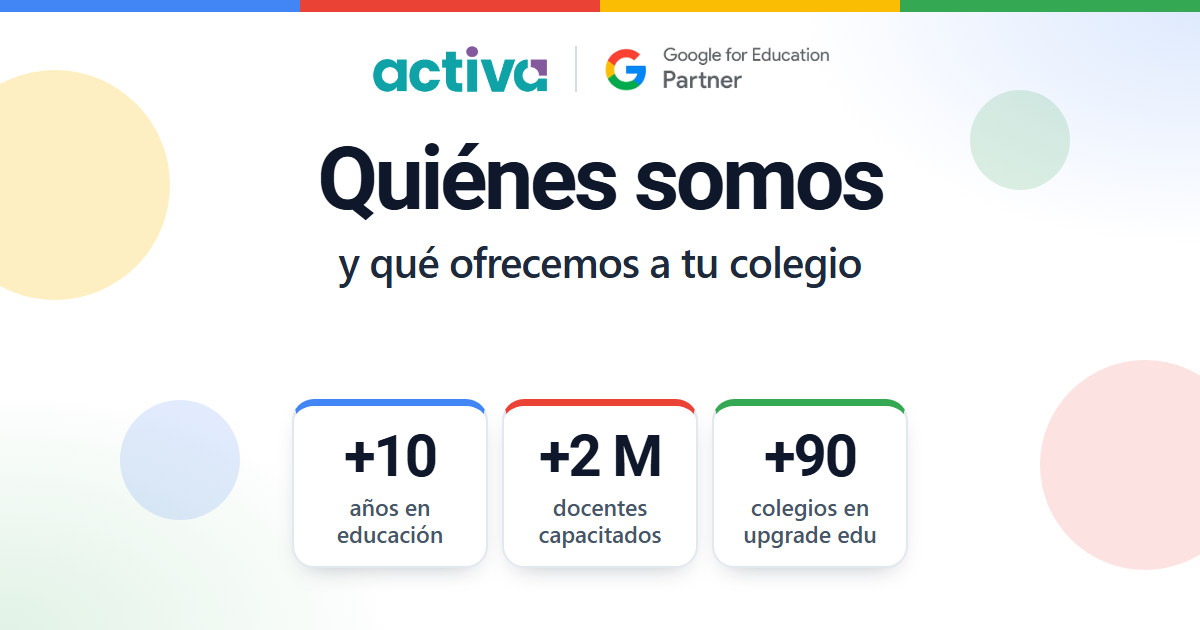
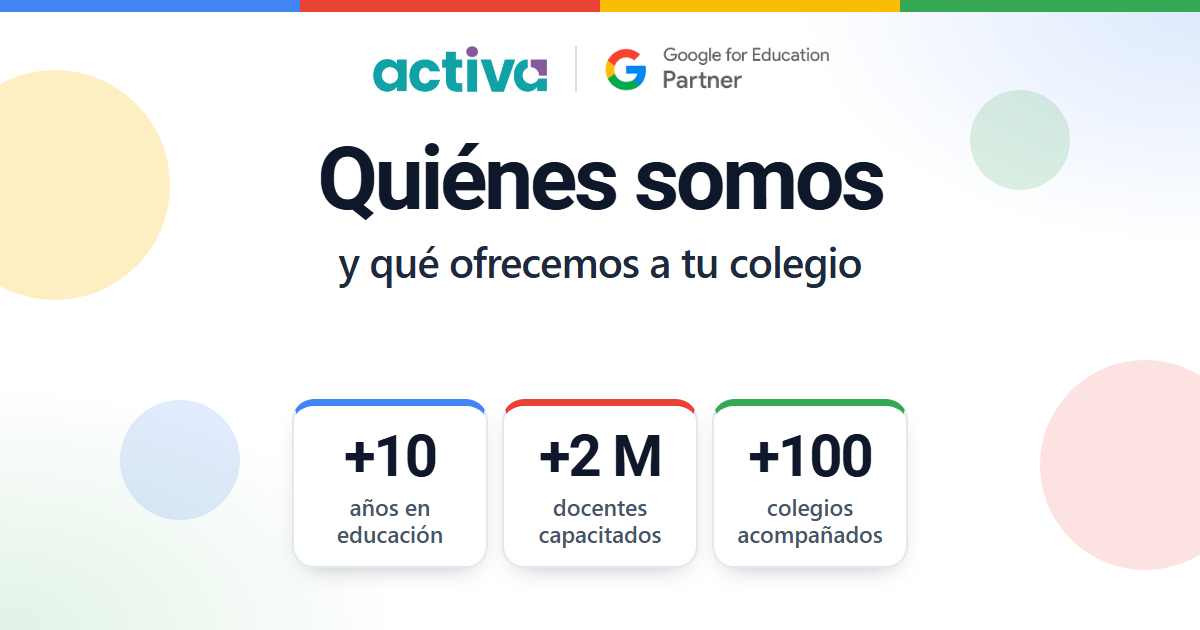
Cifra de colegios sube de +90 a +100 y pasa a decir "acompañados"
Se actualiza en upgrade edu, one-pager, Quiénes somos (incluida la vista
previa og.png), padres de familia y comparativa de competidores. La
etiqueta cambia de "colegios en upgrade edu" a "colegios acompañados",
que es lo que mide la cifra del dueño.

Changed region(s): [[0.6167, 0.7841, 0.74, 0.8746], [0.6167, 0.6635, 0.74, 0.754]]

diff --git a/paginas/upgrade-edu/index.html b/paginas/upgrade-edu/index.html
@@ -2141,7 +2141,7 @@ ul.sp2-l li::before{display:none}
   S03 · QUIÉNES SOMOS — rediseño con el mensaje y las cifras corregidas por el
   cliente: h2 «Más de 10 años en la transformación educativa» + lead con la
   presentación de activa (partner de Google for Education, digitalización
-  completa). Cifras: +2 M docentes, +90 colegios, 16 Reference Schools,
+  completa). Cifras: +2 M docentes, +100 colegios, 16 Reference Schools,
   6 proyectos INTERNACIONALES (El Salvador · Chile · Perú · Barbados ·
   Colombia · México). La banda del ecosistema Google y el pie se conservan.
 
@@ -2186,7 +2186,7 @@ ul.sp2-l li::before{display:none}
       <div class="grid g4" style="grid-auto-rows:172px">
         <div class="card rule b lift"><div class="stat"><div class="n b">+2 M</div>
           <div class="l">docentes capacitados</div></div></div>
-        <div class="card rule r lift"><div class="stat"><div class="n r">+90</div>
+        <div class="card rule r lift"><div class="stat"><div class="n r">+100</div>
           <div class="l">colegios con su programa de <b>transformación digital</b></div></div></div>
         <!-- La cifra de las Reference Schools es la más «de Google» de las
              cuatro y la única lo bastante estrecha para que un aro la rodee
@@ -4744,7 +4744,7 @@ MOVIMIENTO · barrido de luz sobre la banda de cifras (08 · respaldo):
   adicional): capa absoluta que cubre solo la banda, recortada a su radio.
   Cada 9 s, una franja de luz inclinada (blanco pico .09) recorre la banda
   oscura en ≈ 2.3 s y descansa el resto del ciclo: el ojo vuelve a las cifras
-  +2 M · +90 · 16 justo cuando el comercial remata el argumento. El contenido
+  +2 M · +100 · 16 justo cuando el comercial remata el argumento. El contenido
   de la banda sube a z1; el brillo queda debajo. Todo absoluto → 0 px de alto
   añadido: la cuenta anterior no cambia y la lámina sigue en 1280×720.
 -->
@@ -4809,7 +4809,7 @@ MOVIMIENTO · barrido de luz sobre la banda de cifras (08 · respaldo):
           Respaldo<br>comprobado</div>
         <div class="s27w-bs"><b style="color:#8ab4f8">+2 M</b><span>docentes<br>capacitados</span></div>
         <div class="s27w-bd"></div>
-        <div class="s27w-bs"><b style="color:#fdd663">+90</b><span>colegios<br>acompañados</span></div>
+        <div class="s27w-bs"><b style="color:#fdd663">+100</b><span>colegios<br>acompañados</span></div>
         <div class="s27w-bd"></div>
         <div class="s27w-bs"><b style="color:#81c995">16</b><span><span class="gg"><i>G</i><i>o</i><i>o</i><i>g</i><i>l</i><i>e</i></span> Reference<br>Schools</span></div>
       </div>

diff --git a/paginas/padres-de-familia/index.html b/paginas/padres-de-familia/index.html
@@ -1009,7 +1009,7 @@ tbody tr:last-child td{border-bottom:0}
         </div>
         <div class="card pad-s rule r lift" style="flex-direction:row;align-items:center;gap:14px">
           <div class="med r sm" style="background:var(--white)" aria-hidden="true"><svg viewBox="0 0 24 24"><path d="M12 3L1 9l4 2.18v6L12 21l7-3.82v-6l2-1.09V17h2V9L12 3zm6.82 6L12 12.72 5.18 9 12 5.28 18.82 9zM17 15.99l-5 2.73-5-2.73v-3.72L12 15l5-2.73v3.72z"/></svg></div>
-          <div class="stat"><div class="n r" style="font-size:34px;letter-spacing:-1.3px">+90</div>
+          <div class="stat"><div class="n r" style="font-size:34px;letter-spacing:-1.3px">+100</div>
             <div class="l">colegios ya recorrieron este camino</div></div>
         </div>
         <!-- El 16 es la cifra más «de Google» de la lámina y la única lo bastante

diff --git a/paginas/quienes-somos/index.html b/paginas/quienes-somos/index.html
@@ -458,7 +458,7 @@ footer .puntos li::before{background:#64748b;width:6px;height:6px}
   <div class="wrap mo-stagger" id="rejCifras">
     <div class="cifra" style="--c:#4285f4"><b>+10</b><span>años en transformación educativa</span></div>
     <div class="cifra" style="--c:#ea4335"><b>+2 M</b><span>docentes capacitados</span></div>
-    <div class="cifra" style="--c:#fbbc04"><b>+90</b><span>colegios en upgrade edu</span></div>
+    <div class="cifra" style="--c:#fbbc04"><b>+100</b><span>colegios acompañados</span></div>
     <div class="cifra" style="--c:#34a853"><b>16</b><span>Google Reference Schools acompañadas</span></div>
     <div class="cifra" style="--c:#4285f4"><b>6</b><span>países: México, Colombia, Perú, Chile, El Salvador y Barbados</span></div>
   </div>

diff --git a/paginas/one-pager/index.html b/paginas/one-pager/index.html
@@ -573,7 +573,7 @@ footer .puntos li::before{background:#64748b;width:6px;height:6px}
 <section class="cifras" aria-label="Trayectoria de activa">
   <div class="wrap mo-stagger" id="rejCifras">
     <div class="cifra" style="--c:#4285f4"><b>+2 M</b><span>docentes capacitados</span></div>
-    <div class="cifra" style="--c:#ea4335"><b>+90</b><span>colegios en upgrade edu</span></div>
+    <div class="cifra" style="--c:#ea4335"><b>+100</b><span>colegios acompañados</span></div>
     <div class="cifra" style="--c:#fbbc04"><b>16</b><span>Google Reference Schools acompañadas</span></div>
     <div class="cifra" style="--c:#34a853"><b>6</b><span>países: México, Colombia, Perú, Chile, El Salvador y Barbados</span></div>
   </div>

diff --git a/paginas/comparativa-competidores/index.html b/paginas/comparativa-competidores/index.html
@@ -696,7 +696,7 @@ footer p{font-size:13.5px}
           </tr>
           <tr>
             <th scope="row">Tamaño declarado</th>
-            <td class="act">+90 colegios upgrade edu · 16 Google Reference Schools</td>
+            <td class="act">+100 colegios acompañados · 16 Google Reference Schools</td>
             <td>~300 escuelas, 4 países, 6,000 docentes <small>(2026)</small></td>
             <td>400+, 450+ o 500+ en México, o 1,400 en LatAm: <b>sus cifras no cuadran</b></td>
             <td>~500,000 alumnos, 12–15 países; «+1,400 colegios»</td>

diff --git a/paginas/quienes-somos/og-source.html b/paginas/quienes-somos/og-source.html
@@ -40,7 +40,7 @@ h1{position:absolute;top:134px;left:0;right:0;font-size:88px;line-height:1;font-
 <div class="cifras">
   <div><b>+10</b>años en<br>educación</div>
   <div><b>+2 M</b>docentes<br>capacitados</div>
-  <div><b>+90</b>colegios en<br>upgrade edu</div>
+  <div><b>+100</b>colegios<br>acompañados</div>
 </div>
 </body>
 </html>

diff --git a/paginas/padres-de-familia/README.md b/paginas/padres-de-familia/README.md
@@ -66,7 +66,7 @@ contenido y en rojos tenues en la disonancia, amarillo con aros en la bisagra, *
 bloque D** (nubes lentas, verdes suaves, la pradera; sin estallidos ni cascadas: ahí el padre
 baja la guardia), con color y aros en la solución, tono de logro en el resultado, y el cierre
 —que queda proyectado durante las preguntas— con confeti, globos y olas. Las cifras (+2 M,
-+90, 16, 5, +200 M) **no se animan nunca**; se anima lo que las rodea.
++100, 16, 5, +200 M) **no se animan nunca**; se anima lo que las rodea.
 
 Los bucles decorativos son lentos (4–12 s) y los acentos de entrada cortos (≤ .5 s), como
 manda la normativa. En **impresión** sobrevive todo lo estático congelado en su estado final

diff --git a/paginas/one-pager/README.md b/paginas/one-pager/README.md
@@ -44,7 +44,7 @@ Patrón «confianza y autoridad + conversión» (skill `ui-ux-pro-max`):
 
 1. **Hero:** «Transformamos tu colegio con Google», los cuatro ejes en un mosaico y dos llamados
    (conversación y piloto).
-2. **Cifras:** +2 M docentes, +90 colegios, 16 Google Reference Schools, 6 países.
+2. **Cifras:** +2 M docentes, +100 colegios, 16 Google Reference Schools, 6 países.
 3. **El reto:** por qué la tecnología no transforma sola.
 4. **Programa:** los cuatro ejes con sus marcas.
 5. **Plataformas propias:** impulsa, eleva, motiva, beta e integra, con un dato cada una.

diff --git a/paginas/quienes-somos/README.md b/paginas/quienes-somos/README.md
@@ -10,7 +10,7 @@ Se publica en <https://sanoapro.github.io/activa/paginas/quienes-somos/>.
 
 1. **Hero:** «Transformamos tu colegio con Google» y los cuatro ejes.
 2. **Quiénes somos:** qué es activa, qué hace y cómo trabaja (portafolio, secciones 1 y 11).
-3. **Cifras:** +10 años, +2 M docentes, +90 colegios, 16 Google Reference Schools y 6 países.
+3. **Cifras:** +10 años, +2 M docentes, +100 colegios, 16 Google Reference Schools y 6 países.
 4. Del **reto** al **contacto**, igual que el one-pager.
 
 ## Reglas de contenido
